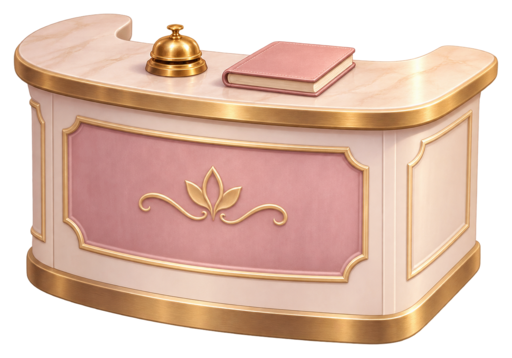
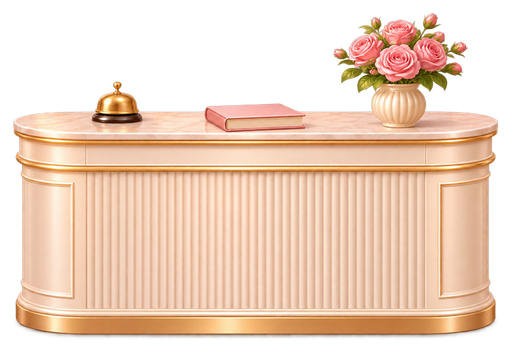
Publish generator 60/2-minute rest and approved Studio/Reception art to /preview/.

diff --git a/preview/i18n.js b/preview/i18n.js
@@ -16,7 +16,7 @@ window.LANGS = {
     mergeInto: 'ئىككىنى بىرلەشتۈرسىڭىز:', maxLevel: 'ئەڭ يۇقىرى دەرىجە! ✨',
     genHint: 'بېسىڭ: بۇيۇم چىقىدۇ (1 ئېنېرگىيە)', genMerge: 'ئوخشاش ئىككى قۇتىنى بىرلەشتۈرسىڭىز، تېخىمۇ ياخشى بۇيۇم چىقىدۇ',
     genMax: 'ئەڭ ياخشى قۇتا! ✨',
-    genRestHint: 'قۇتا 20 بۇيۇم چىقارغاندىن كېيىن 3 مىنۇت ئارام ئالىدۇ', genResting: t => 'قۇتا ئارام ئېلىۋاتىدۇ: ' + t, genPeekHint: 'بېسىپ تۇرۇپ كۆرۈڭ',
+    genRestHint: 'قۇتا 60 بۇيۇم چىقارغاندىن كېيىن 2 مىنۇت ئارام ئالىدۇ', genResting: t => 'قۇتا ئارام ئېلىۋاتىدۇ: ' + t, genPeekHint: 'بېسىپ تۇرۇپ كۆرۈڭ',
     wrapTable: 'ئوراش ئۈستىلى', wrapTableHint: 'سوۋغات زاكازىدىكى بۇيۇملارنى بۇ يەرگە تاشلاڭ',
     wrapBox: 'سوۋغات قۇتىسى', wrapBoxHint: 'بۇنى خېرىدارغا تاپشۇرۇڭ', wrapBadge: 'سوۋغات',
     wrapProgress: t => 'ئورىلىۋاتىدۇ: ' + t, wrapReady: 'ئوراش تۈگىدى',
@@ -117,7 +117,7 @@ window.LANGS = {
     hintExtra: p => 'قوشۇمچە رەڭ ' + p + ' تەڭگە، سېتىۋالغاندا ئاپتوماتىك قوللىنىلىدۇ؛ ئۆي تولۇقلىنىشى، يۇلتۇز ۋە ۋەزىپە ساناقلىرىغا تەسىر قىلمايدۇ.', toastColourAdded: 'رەڭ قوشۇلدى ۋە ئىشلىتىلدى', toastColourApplied: 'رەڭ ئىشلىتىلدى',
     previewHint: 'ئالدىن كۆرۈش — ساقلانمىدى', slotsTitle: 'بۇيۇملار',
     decos: { rug:'گىلەم', flowers:'گۈلدەستە', table:'گىرىم ئۈستىلى', mirror:'ئەينەك', chair:'ئورۇندۇق', lamp:'چىراغ', curtain:'پەردە', shelf:'تەكچە',
-      rcprunner:'يول گىلەمى', rcpdesk:'قوبۇل ئۈستىلى', rcpsign:'خۇش كەلدىڭىز', rcptea:'چاي ئۈستىلى', rcpplant:'چوڭ ئۆسۈملۈك', rcpsofa:'سوفا', rcpwall:'تام بېزىكى', rcplights:'ئېسىلما چىراغ', rcpcase:'كۆرگەزمە ئىشكاپى',
+      rcprunner:'يول گىلەمى', rcpdesk:'قوبۇل ئۈستىلى', rcpsign:'گۈل ۋازىسى', rcptea:'چاي ئۈستىلى', rcpplant:'چوڭ ئۆسۈملۈك', rcpsofa:'سوفا', rcpwall:'تام بېزىكى', rcplights:'ئېسىلما چىراغ', rcpcase:'كۆرگەزمە ئىشكاپى',
       spabed:'كارىۋات', spascreen:'قاتلانما پەردە', spatowels:'لۆڭگە ئېسىلمىسى', sparug:'سپا گىلىمى', spatrolley:'قورال ھارۋىسى', spasteam:'يۈز بۇغلىغۇچ', spachair:'ئارام ئورۇندۇقى', spabasin:'يۇيۇنۇش ئۈستىلى',
       spadrape:'دېرىزە پەردىسى', spaplant:'ئېگىز ئۆسۈملۈك', spalamp:'پول چىرىغى', spapouf:'جۈپ ئورۇندۇق', spashelf:'تەكچە', spafountain:'تاش فونتان', spacandles:'شام ئۈستىلى', spaorchid:'ئوركىدىيە',
       /* PROVISIONAL UG (Makeup Studio), owner/native review needed */
@@ -137,7 +137,7 @@ window.LANGS = {
     mergeInto: 'Merge two to get:', maxLevel: 'Maximum level! ✨',
     genHint: 'Tap to get an item (1 energy)', genMerge: 'Merge two identical boxes for better items',
     genMax: 'The best box! ✨',
-    genRestHint: 'After 20 items, the box rests for 3 minutes', genResting: t => 'The box is resting: ' + t, genPeekHint: 'Hold to see inside',
+    genRestHint: 'After 60 items, the box rests for 2 minutes', genResting: t => 'The box is resting: ' + t, genPeekHint: 'Hold to see inside',
     wrapTable: 'Wrapping table', wrapTableHint: 'Drop the gift-order items here',
     wrapBox: 'Wrapped gift', wrapBoxHint: 'Deliver this to the customer', wrapBadge: 'Gift',
     wrapProgress: t => 'Wrapping: ' + t, wrapReady: 'Wrapping is done',
@@ -238,7 +238,7 @@ window.LANGS = {
     hintExtra: p => 'An extra colour costs ' + p + ' coins and is applied when bought; it adds nothing to room completion, stars or task counts.', toastColourAdded: 'Colour added and applied', toastColourApplied: 'Colour applied',
     previewHint: 'Preview — not saved', slotsTitle: 'Items',
     decos: { rug:'Rug', flowers:'Flowers', table:'Vanity Table', mirror:'Mirror', chair:'Salon Chair', lamp:'Lamp', curtain:'Curtains', shelf:'Shelf',
-      rcprunner:'Runner Rug', rcpdesk:'Reception Desk', rcpsign:'Welcome Sign', rcptea:'Tea Table', rcpplant:'Tall Plant', rcpsofa:'Sofa', rcpwall:'Feature Wall', rcplights:'Pendant Lights', rcpcase:'Display Case',
+      rcprunner:'Runner Rug', rcpdesk:'Reception Desk', rcpsign:'Floor Vase', rcptea:'Tea Table', rcpplant:'Tall Plant', rcpsofa:'Sofa', rcpwall:'Feature Wall', rcplights:'Pendant Lights', rcpcase:'Display Case',
       spabed:'Treatment Bed', spascreen:'Folding Screen', spatowels:'Towel Ladder', sparug:'Spa Mat', spatrolley:'Treatment Trolley', spasteam:'Facial Steamer', spachair:'Lounge Chair', spabasin:'Washbasin Vanity',
       spadrape:'Window Drapes', spaplant:'Tall Plant', spalamp:'Floor Lamp', spapouf:'Pouf Pair', spashelf:'Product Shelf', spafountain:'Stone Fountain', spacandles:'Candle Table', spaorchid:'Orchid',
       mkrug:'Studio Rug', mkvanity:'Vanity Desk', mkchair:'Makeup Seat', mkmirror:'Bulb Mirror', mkring:'Ring Light', mkcabinet:'Cabinet', mkshelf:'Wall Shelf', mkgallery:'Looks Gallery', mksheers:'Sheers', mkplinth:'Plinth' },
@@ -257,7 +257,7 @@ window.LANGS = {
     mergeInto: 'İkisini birleştirirsen:', maxLevel: 'En yüksek seviye! ✨',
     genHint: 'Dokun, bir ürün çıksın (1 enerji)', genMerge: 'Daha iyi ürünler için aynı iki kutuyu birleştir',
     genMax: 'En iyi kutu! ✨',
-    genRestHint: '20 ürün çıkardıktan sonra kutu 3 dakika dinlenir', genResting: t => 'Kutu dinleniyor: ' + t, genPeekHint: 'Basılı tutarak bakın',
+    genRestHint: '60 ürün çıkardıktan sonra kutu 2 dakika dinlenir', genResting: t => 'Kutu dinleniyor: ' + t, genPeekHint: 'Basılı tutarak bakın',
     wrapTable: 'Paketleme masası', wrapTableHint: 'Hediye siparişindeki ürünleri buraya bırakın',
     wrapBox: 'Paketlenmiş hediye', wrapBoxHint: 'Bunu müşteriye teslim edin', wrapBadge: 'Hediye',
     wrapProgress: t => 'Paketleniyor: ' + t, wrapReady: 'Paketleme bitti',
@@ -358,7 +358,7 @@ window.LANGS = {
     hintExtra: p => 'Ek renk ' + p + ' altındır ve satın alınınca uygulanır; oda tamamlanmasına, yıldızlara veya görev sayaçlarına katkı yapmaz.', toastColourAdded: 'Renk eklendi ve uygulandı', toastColourApplied: 'Renk uygulandı',
     previewHint: 'Önizleme — kaydedilmedi', slotsTitle: 'Ürünler',
     decos: { rug:'Halı', flowers:'Çiçekler', table:'Makyaj Masası', mirror:'Ayna', chair:'Salon Koltuğu', lamp:'Lamba', curtain:'Perdeler', shelf:'Raf',
-      rcprunner:'Yolluk Halı', rcpdesk:'Resepsiyon Masası', rcpsign:'Karşılama Tabelası', rcptea:'Çay Masası', rcpplant:'Uzun Bitki', rcpsofa:'Kanepe', rcpwall:'Vurgu Duvarı', rcplights:'Sarkıt Lambalar', rcpcase:'Vitrin',
+      rcprunner:'Yolluk Halı', rcpdesk:'Resepsiyon Masası', rcpsign:'Yer Vazosu', rcptea:'Çay Masası', rcpplant:'Uzun Bitki', rcpsofa:'Kanepe', rcpwall:'Vurgu Duvarı', rcplights:'Sarkıt Lambalar', rcpcase:'Vitrin',
       spabed:'Bakım Yatağı', spascreen:'Katlanır Paravan', spatowels:'Havlu Merdiveni', sparug:'Spa Paspası', spatrolley:'Bakım Arabası', spasteam:'Yüz Buharı', spachair:'Dinlenme Koltuğu', spabasin:'Lavabo Dolabı',
       spadrape:'Pencere Perdeleri', spaplant:'Uzun Bitki', spalamp:'Ayaklı Lamba', spapouf:'Puf Çifti', spashelf:'Ürün Rafı', spafountain:'Taş Çeşme', spacandles:'Mum Masası', spaorchid:'Orkide',
       mkrug:'Stüdyo Halısı', mkvanity:'Makyaj Masası', mkchair:'Makyaj Koltuğu', mkmirror:'Ampullü Ayna', mkring:'Halka Işık', mkcabinet:'Dolap', mkshelf:'Duvar Rafı', mkgallery:'Görünüm Galerisi', mksheers:'Tül Perde', mkplinth:'Kaide' },
@@ -377,7 +377,7 @@ window.LANGS = {
     mergeInto: 'بدمج اثنين تحصل على:', maxLevel: 'أعلى مستوى! ✨',
     genHint: 'المس للحصول على عنصر (طاقة واحدة)', genMerge: 'ادمج صندوقين متطابقين للحصول على عناصر أفضل',
     genMax: 'أفضل صندوق! ✨',
-    genRestHint: 'بعد إخراج 20 قطعة يستريح الصندوق 3 دقائق', genResting: t => 'الصندوق يستريح: ' + t, genPeekHint: 'اضغط مع الاستمرار للعرض',
+    genRestHint: 'بعد إخراج 60 قطعة يستريح الصندوق دقيقتين', genResting: t => 'الصندوق يستريح: ' + t, genPeekHint: 'اضغط مع الاستمرار للعرض',
     wrapTable: 'طاولة التغليف', wrapTableHint: 'ألقوا أغراض طلب الهدية هنا',
     wrapBox: 'هدية مغلفة', wrapBoxHint: 'سلّموها إلى الزبون', wrapBadge: 'هدية',
     wrapProgress: t => 'جارٍ التغليف: ' + t, wrapReady: 'انتهى التغليف',
@@ -478,7 +478,7 @@ window.LANGS = {
     hintExtra: p => 'اللون الإضافي يكلّف ' + p + ' عملة ويُطبَّق عند الشراء؛ ولا يضيف شيئًا إلى اكتمال الغرفة أو النجوم أو عدّادات المهام.', toastColourAdded: 'أُضيف اللون وطُبّق', toastColourApplied: 'طُبّق اللون',
     previewHint: 'معاينة — لم يُحفظ', slotsTitle: 'العناصر',
     decos: { rug:'سجادة', flowers:'زهور', table:'طاولة التزيين', mirror:'مرآة', chair:'كرسي الصالون', lamp:'مصباح', curtain:'ستائر', shelf:'رف',
-      rcprunner:'سجادة ممر', rcpdesk:'مكتب الاستقبال', rcpsign:'لافتة الترحيب', rcptea:'طاولة الشاي', rcpplant:'نبتة طويلة', rcpsofa:'أريكة', rcpwall:'جدار مميز', rcplights:'إضاءة معلّقة', rcpcase:'خزانة عرض',
+      rcprunner:'سجادة ممر', rcpdesk:'مكتب الاستقبال', rcpsign:'مزهرية أرضية', rcptea:'طاولة الشاي', rcpplant:'نبتة طويلة', rcpsofa:'أريكة', rcpwall:'جدار مميز', rcplights:'إضاءة معلّقة', rcpcase:'خزانة عرض',
       spabed:'سرير العلاج', spascreen:'حاجز قابل للطي', spatowels:'سلّم المناشف', sparug:'حصيرة السبا', spatrolley:'عربة العلاج', spasteam:'جهاز بخار الوجه', spachair:'كرسي استرخاء', spabasin:'حوض غسل بخزانة',
       spadrape:'ستائر النافذة', spaplant:'نبتة طويلة', spalamp:'مصباح أرضي', spapouf:'زوج بوف', spashelf:'رف المنتجات', spafountain:'نافورة حجرية', spacandles:'طاولة الشموع', spaorchid:'أوركيد',
       mkrug:'سجادة الاستوديو', mkvanity:'مكتب التزيين', mkchair:'مقعد المكياج', mkmirror:'مرآة بمصابيح', mkring:'إضاءة حلقية', mkcabinet:'خزانة', mkshelf:'رف حائط', mkgallery:'معرض الإطلالات', mksheers:'ستائر شفافة', mkplinth:'قاعدة عرض' },
@@ -497,7 +497,7 @@ window.LANGS = {
     mergeInto: '合成两件可得：', maxLevel: '已达最高等级！✨',
     genHint: '点击获得物品（消耗 1 点能量）', genMerge: '合成两个相同的礼盒，可得到更好的物品',
     genMax: '最好的礼盒！✨',
-    genRestHint: '产出 20 个物品后，礼盒休息 3 分钟', genResting: t => '礼盒休息中：' + t, genPeekHint: '长按查看产出',
+    genRestHint: '产出 60 个物品后，礼盒休息 2 分钟', genResting: t => '礼盒休息中：' + t, genPeekHint: '长按查看产出',
     wrapTable: '包装台', wrapTableHint: '把礼物订单里的物品放到这里',
     wrapBox: '包装好的礼物', wrapBoxHint: '把它交给顾客', wrapBadge: '礼物',
     wrapProgress: t => '包装中：' + t, wrapReady: '包装完成',
@@ -598,7 +598,7 @@ window.LANGS = {
     hintExtra: p => '额外颜色需要 ' + p + ' 金币，购买后立即应用；不会增加房间完成度、星星或任务计数。', toastColourAdded: '颜色已添加并应用', toastColourApplied: '颜色已应用',
     previewHint: '预览——未保存', slotsTitle: '物品',
     decos: { rug:'地毯', flowers:'鲜花', table:'梳妆台', mirror:'镜子', chair:'沙龙椅', lamp:'台灯', curtain:'窗帘', shelf:'置物架',
-      rcprunner:'走廊地毯', rcpdesk:'接待台', rcpsign:'欢迎标牌', rcptea:'茶几', rcpplant:'高大绿植', rcpsofa:'沙发', rcpwall:'主题墙', rcplights:'吊灯', rcpcase:'展示柜',
+      rcprunner:'走廊地毯', rcpdesk:'接待台', rcpsign:'落地花瓶', rcptea:'茶几', rcpplant:'高大绿植', rcpsofa:'沙发', rcpwall:'主题墙', rcplights:'吊灯', rcpcase:'展示柜',
       spabed:'护理床', spascreen:'折叠屏风', spatowels:'毛巾架', sparug:'水疗垫', spatrolley:'护理推车', spasteam:'面部蒸汽机', spachair:'休闲椅', spabasin:'洗手台柜',
       spadrape:'窗帘', spaplant:'高大绿植', spalamp:'落地灯', spapouf:'坐墩一对', spashelf:'产品架', spafountain:'石质喷泉', spacandles:'蜡烛桌', spaorchid:'兰花',
       mkrug:'工作室地毯', mkvanity:'化妆桌', mkchair:'化妆椅', mkmirror:'灯泡镜', mkring:'环形补光灯', mkcabinet:'柜子', mkshelf:'墙面搁板', mkgallery:'造型展示墙', mksheers:'薄纱窗帘', mkplinth:'展示台' },
@@ -617,7 +617,7 @@ window.LANGS = {
     mergeInto: 'Если объединить два, получится:', maxLevel: 'Максимальный уровень! ✨',
     genHint: 'Нажмите, чтобы получить предмет (1 энергия)', genMerge: 'Объедините две одинаковые коробки, чтобы получать предметы лучше',
     genMax: 'Лучшая коробка! ✨',
-    genRestHint: 'После 20 предметов коробка отдыхает 3 минуты', genResting: t => 'Коробка отдыхает: ' + t, genPeekHint: 'Удерживайте, чтобы увидеть',
+    genRestHint: 'После 60 предметов коробка отдыхает 2 минуты', genResting: t => 'Коробка отдыхает: ' + t, genPeekHint: 'Удерживайте, чтобы увидеть',
     wrapTable: 'Стол для упаковки', wrapTableHint: 'Положите сюда предметы из подарочного заказа',
     wrapBox: 'Упакованный подарок', wrapBoxHint: 'Отдайте его гостью', wrapBadge: 'Подарок',
     wrapProgress: t => 'Упаковка: ' + t, wrapReady: 'Упаковка готова',
@@ -718,7 +718,7 @@ window.LANGS = {
     hintExtra: p => 'Дополнительный цвет стоит ' + p + ' монет и применяется при покупке; он не влияет на заполненность комнаты, звёзды и счётчики заданий.', toastColourAdded: 'Цвет добавлен и применён', toastColourApplied: 'Цвет применён',
     previewHint: 'Просмотр — не сохранено', slotsTitle: 'Предметы',
     decos: { rug:'Ковёр', flowers:'Цветы', table:'Туалетный столик', mirror:'Зеркало', chair:'Салонное кресло', lamp:'Лампа', curtain:'Шторы', shelf:'Полка',
-      rcprunner:'Ковровая дорожка', rcpdesk:'Стойка ресепшен', rcpsign:'Приветственная табличка', rcptea:'Чайный столик', rcpplant:'Высокое растение', rcpsofa:'Диван', rcpwall:'Акцентная стена', rcplights:'Подвесные светильники', rcpcase:'Витрина',
+      rcprunner:'Ковровая дорожка', rcpdesk:'Стойка ресепшен', rcpsign:'Напольная ваза', rcptea:'Чайный столик', rcpplant:'Высокое растение', rcpsofa:'Диван', rcpwall:'Акцентная стена', rcplights:'Подвесные светильники', rcpcase:'Витрина',
       spabed:'Кушетка для процедур', spascreen:'Складная ширма', spatowels:'Лесенка для полотенец', sparug:'Спа-коврик', spatrolley:'Тележка для процедур', spasteam:'Паровой аппарат для лица', spachair:'Кресло для отдыха', spabasin:'Тумба с раковиной',
       spadrape:'Шторы на окно', spaplant:'Высокое растение', spalamp:'Торшер', spapouf:'Пара пуфов', spashelf:'Полка для средств', spafountain:'Каменный фонтан', spacandles:'Столик со свечами', spaorchid:'Орхидея',
       mkrug:'Ковёр студии', mkvanity:'Гримёрный стол', mkchair:'Кресло визажиста', mkmirror:'Зеркало с лампочками', mkring:'Кольцевая лампа', mkcabinet:'Шкаф', mkshelf:'Настенная полка', mkgallery:'Галерея образов', mksheers:'Тюль', mkplinth:'Подиум' },
@@ -737,7 +737,7 @@ window.LANGS = {
     mergeInto: 'En fusionnant deux, vous obtenez :', maxLevel: 'Niveau maximum ! ✨',
     genHint: 'Touchez pour obtenir un objet (1 énergie)', genMerge: 'Fusionnez deux boîtes identiques pour de meilleurs objets',
     genMax: 'La meilleure boîte ! ✨',
-    genRestHint: 'Après 20 objets, la boîte se repose 3 minutes', genResting: t => 'La boîte se repose : ' + t, genPeekHint: 'Maintenez pour voir',
+    genRestHint: 'Après 60 objets, la boîte se repose 2 minutes', genResting: t => 'La boîte se repose : ' + t, genPeekHint: 'Maintenez pour voir',
     wrapTable: 'Table d’emballage', wrapTableHint: 'Déposez ici les objets de la commande cadeau',
     wrapBox: 'Cadeau emballé', wrapBoxHint: 'Remettez-le à la cliente', wrapBadge: 'Cadeau',
     wrapProgress: t => 'Emballage : ' + t, wrapReady: 'Emballage terminé',
@@ -838,7 +838,7 @@ window.LANGS = {
     hintExtra: p => 'Une couleur supplémentaire coûte ' + p + ' pièces et s’applique à l’achat ; elle n’ajoute rien à l’achèvement de la pièce, aux étoiles ni aux compteurs de missions.', toastColourAdded: 'Couleur ajoutée et appliquée', toastColourApplied: 'Couleur appliquée',
     previewHint: 'Aperçu — non enregistré', slotsTitle: 'Objets',
     decos: { rug:'Tapis', flowers:'Fleurs', table:'Coiffeuse', mirror:'Miroir', chair:'Fauteuil de salon', lamp:'Lampe', curtain:'Rideaux', shelf:'Étagère',
-      rcprunner:'Tapis de couloir', rcpdesk:'Comptoir d’accueil', rcpsign:'Enseigne de bienvenue', rcptea:'Table à thé', rcpplant:'Grande plante', rcpsofa:'Canapé', rcpwall:'Mur d’accent', rcplights:'Suspensions', rcpcase:'Vitrine',
+      rcprunner:'Tapis de couloir', rcpdesk:'Comptoir d’accueil', rcpsign:'Vase sur pied', rcptea:'Table à thé', rcpplant:'Grande plante', rcpsofa:'Canapé', rcpwall:'Mur d’accent', rcplights:'Suspensions', rcpcase:'Vitrine',
       spabed:'Lit de soins', spascreen:'Paravent pliant', spatowels:'Échelle à serviettes', sparug:'Tapis de spa', spatrolley:'Chariot de soins', spasteam:'Vapeur faciale', spachair:'Fauteuil de détente', spabasin:'Meuble vasque',
       spadrape:'Rideaux de fenêtre', spaplant:'Grande plante', spalamp:'Lampadaire', spapouf:'Paire de poufs', spashelf:'Étagère à produits', spafountain:'Fontaine en pierre', spacandles:'Table à bougies', spaorchid:'Orchidée',
       mkrug:'Tapis du studio', mkvanity:'Bureau de maquillage', mkchair:'Siège de maquillage', mkmirror:'Miroir à ampoules', mkring:'Lampe annulaire', mkcabinet:'Armoire', mkshelf:'Étagère murale', mkgallery:'Galerie de looks', mksheers:'Voilages', mkplinth:'Socle' },
@@ -857,7 +857,7 @@ window.LANGS = {
     mergeInto: 'Zwei verschmelzen ergibt:', maxLevel: 'Höchstes Level! ✨',
     genHint: 'Tippen für einen Gegenstand (1 Energie)', genMerge: 'Verschmelze zwei gleiche Boxen für bessere Gegenstände',
     genMax: 'Die beste Box! ✨',
-    genRestHint: 'Nach 20 Gegenständen ruht die Box 3 Minuten', genResting: t => 'Die Box ruht: ' + t, genPeekHint: 'Halten zum Ansehen',
+    genRestHint: 'Nach 60 Gegenständen ruht die Box 2 Minuten', genResting: t => 'Die Box ruht: ' + t, genPeekHint: 'Halten zum Ansehen',
     wrapTable: 'Einpacktisch', wrapTableHint: 'Legt die Gegenstände der Geschenkbestellung hier ab',
     wrapBox: 'Eingepacktes Geschenk', wrapBoxHint: 'Gebt es der Kundin', wrapBadge: 'Geschenk',
     wrapProgress: t => 'Wird eingepackt: ' + t, wrapReady: 'Einpacken fertig',
@@ -958,7 +958,7 @@ window.LANGS = {
     hintExtra: p => 'Eine zusätzliche Farbe kostet ' + p + ' Münzen und wird beim Kauf angewendet; sie zählt nicht für Raumfortschritt, Sterne oder Aufgabenzähler.', toastColourAdded: 'Farbe hinzugefügt und angewendet', toastColourApplied: 'Farbe angewendet',
     previewHint: 'Vorschau — nicht gespeichert', slotsTitle: 'Gegenstände',
     decos: { rug:'Teppich', flowers:'Blumen', table:'Schminktisch', mirror:'Spiegel', chair:'Salonstuhl', lamp:'Lampe', curtain:'Vorhänge', shelf:'Regal',
-      rcprunner:'Läufer', rcpdesk:'Empfangstresen', rcpsign:'Willkommensschild', rcptea:'Teetisch', rcpplant:'Hohe Pflanze', rcpsofa:'Sofa', rcpwall:'Akzentwand', rcplights:'Pendelleuchten', rcpcase:'Vitrine',
+      rcprunner:'Läufer', rcpdesk:'Empfangstresen', rcpsign:'Bodenvase', rcptea:'Teetisch', rcpplant:'Hohe Pflanze', rcpsofa:'Sofa', rcpwall:'Akzentwand', rcplights:'Pendelleuchten', rcpcase:'Vitrine',
       spabed:'Behandlungsliege', spascreen:'Paravent', spatowels:'Handtuchleiter', sparug:'Spa-Matte', spatrolley:'Behandlungswagen', spasteam:'Gesichtsdampfer', spachair:'Relaxsessel', spabasin:'Waschtischunterschrank',
       spadrape:'Fenstervorhänge', spaplant:'Hohe Pflanze', spalamp:'Stehlampe', spapouf:'Pouf-Paar', spashelf:'Produktregal', spafountain:'Steinbrunnen', spacandles:'Kerzentisch', spaorchid:'Orchidee',
       mkrug:'Studioteppich', mkvanity:'Schminkplatz', mkchair:'Make-up-Sitz', mkmirror:'Glühbirnenspiegel', mkring:'Ringlicht', mkcabinet:'Schrank', mkshelf:'Wandregal', mkgallery:'Look-Galerie', mksheers:'Gardinen', mkplinth:'Sockel' },
@@ -977,7 +977,7 @@ window.LANGS = {
     mergeInto: 'Al fusionar dos obtienes:', maxLevel: '¡Nivel máximo! ✨',
     genHint: 'Toca para obtener un objeto (1 de energía)', genMerge: 'Fusiona dos cajas iguales para obtener mejores objetos',
     genMax: '¡La mejor caja! ✨',
-    genRestHint: 'Tras 20 objetos, la caja descansa 3 minutos', genResting: t => 'La caja está en descanso: ' + t, genPeekHint: 'Mantén pulsado para ver',
+    genRestHint: 'Tras 60 objetos, la caja descansa 2 minutos', genResting: t => 'La caja está en descanso: ' + t, genPeekHint: 'Mantén pulsado para ver',
     wrapTable: 'Mesa de envolver', wrapTableHint: 'Deja aquí los objetos del pedido de regalo',
     wrapBox: 'Regalo envuelto', wrapBoxHint: 'Entrégaselo a la clienta', wrapBadge: 'Regalo',
     wrapProgress: t => 'Envolviendo: ' + t, wrapReady: 'El envoltorio está listo',
@@ -1078,7 +1078,7 @@ window.LANGS = {
     hintExtra: p => 'Un color extra cuesta ' + p + ' monedas y se aplica al comprarlo; no suma a lo completa que está la sala, a las estrellas ni a los contadores de tareas.', toastColourAdded: 'Color añadido y aplicado', toastColourApplied: 'Color aplicado',
     previewHint: 'Vista previa: no se guarda', slotsTitle: 'Objetos',
     decos: { rug:'Alfombra', flowers:'Flores', table:'Tocador', mirror:'Espejo', chair:'Sillón de salón', lamp:'Lámpara', curtain:'Cortinas', shelf:'Estante',
-      rcprunner:'Alfombra de pasillo', rcpdesk:'Mostrador de recepción', rcpsign:'Letrero de bienvenida', rcptea:'Mesa de té', rcpplant:'Planta alta', rcpsofa:'Sofá', rcpwall:'Pared de acento', rcplights:'Lámparas colgantes', rcpcase:'Vitrina',
+      rcprunner:'Alfombra de pasillo', rcpdesk:'Mostrador de recepción', rcpsign:'Jarrón de pie', rcptea:'Mesa de té', rcpplant:'Planta alta', rcpsofa:'Sofá', rcpwall:'Pared de acento', rcplights:'Lámparas colgantes', rcpcase:'Vitrina',
       spabed:'Camilla de tratamientos', spascreen:'Biombo plegable', spatowels:'Escalera de toallas', sparug:'Esterilla de spa', spatrolley:'Carrito de tratamientos', spasteam:'Vaporizador facial', spachair:'Sillón de relax', spabasin:'Mueble con lavabo',
       spadrape:'Cortinas de ventana', spaplant:'Planta alta', spalamp:'Lámpara de pie', spapouf:'Par de pufs', spashelf:'Estante de productos', spafountain:'Fuente de piedra', spacandles:'Mesa de velas', spaorchid:'Orquídea',
       mkrug:'Alfombra del estudio', mkvanity:'Tocador de trabajo', mkchair:'Asiento de maquillaje', mkmirror:'Espejo con bombillas', mkring:'Aro de luz', mkcabinet:'Armario', mkshelf:'Estante de pared', mkgallery:'Galería de looks', mksheers:'Visillos', mkplinth:'Pedestal' },
@@ -1097,7 +1097,7 @@ window.LANGS = {
     mergeInto: 'Mesclando dois, você obtém:', maxLevel: 'Nível máximo! ✨',
     genHint: 'Toque para obter um item (1 de energia)', genMerge: 'Mescle duas caixas iguais para obter itens melhores',
     genMax: 'A melhor caixa! ✨',
-    genRestHint: 'Depois de 20 itens, a caixa descansa 3 minutos', genResting: t => 'A caixa está descansando: ' + t, genPeekHint: 'Segure para ver',
+    genRestHint: 'Depois de 60 itens, a caixa descansa 2 minutos', genResting: t => 'A caixa está descansando: ' + t, genPeekHint: 'Segure para ver',
     wrapTable: 'Mesa de embrulho', wrapTableHint: 'Solte aqui os itens do pedido de presente',
     wrapBox: 'Presente embrulhado', wrapBoxHint: 'Entregue à cliente', wrapBadge: 'Presente',
     wrapProgress: t => 'Embrulhando: ' + t, wrapReady: 'O embrulho está pronto',
@@ -1198,7 +1198,7 @@ window.LANGS = {
     hintExtra: p => 'Uma cor extra custa ' + p + ' moedas e é aplicada ao comprar; ela não soma ao progresso do ambiente, às estrelas nem aos contadores de tarefas.', toastColourAdded: 'Cor adicionada e aplicada', toastColourApplied: 'Cor aplicada',
     previewHint: 'Pré-visualização — não salva', slotsTitle: 'Itens',
     decos: { rug:'Tapete', flowers:'Flores', table:'Penteadeira', mirror:'Espelho', chair:'Cadeira de salão', lamp:'Luminária', curtain:'Cortinas', shelf:'Prateleira',
-      rcprunner:'Passadeira', rcpdesk:'Balcão de recepção', rcpsign:'Placa de boas-vindas', rcptea:'Mesa de chá', rcpplant:'Planta alta', rcpsofa:'Sofá', rcpwall:'Parede de destaque', rcplights:'Pendentes', rcpcase:'Vitrine',
+      rcprunner:'Passadeira', rcpdesk:'Balcão de recepção', rcpsign:'Vaso de chão', rcptea:'Mesa de chá', rcpplant:'Planta alta', rcpsofa:'Sofá', rcpwall:'Parede de destaque', rcplights:'Pendentes', rcpcase:'Vitrine',
       spabed:'Maca de tratamento', spascreen:'Biombo dobrável', spatowels:'Escada de toalhas', sparug:'Tapete de spa', spatrolley:'Carrinho de tratamento', spasteam:'Vaporizador facial', spachair:'Poltrona de descanso', spabasin:'Gabinete com pia',
       spadrape:'Cortinas da janela', spaplant:'Planta alta', spalamp:'Luminária de piso', spapouf:'Par de pufes', spashelf:'Prateleira de produtos', spafountain:'Fonte de pedra', spacandles:'Mesa de velas', spaorchid:'Orquídea',
       mkrug:'Tapete do estúdio', mkvanity:'Bancada de maquiagem', mkchair:'Cadeira de maquiagem', mkmirror:'Espelho com lâmpadas', mkring:'Ring light', mkcabinet:'Armário', mkshelf:'Prateleira de parede', mkgallery:'Galeria de looks', mksheers:'Cortinas translúcidas', mkplinth:'Pedestal' },

diff --git a/preview/art.js b/preview/art.js
@@ -294,12 +294,13 @@ const SALON_DIR = 'assets/salon-v1/';
    (window rod/sill, vanity under the mirror, vase foot on the tabletop, floor feet). Boxes fill
    the sprite exactly, so object-fit:contain no longer letterboxes and “drops” props in mid-air. */
 const SALON_LAYOUT = {rug:[79.56,189.94,200.88,75.08,0], curtain:[225.06,0,116.31,163,1], shelf:[3.98,32.07,74.09,184.97,2], mirror:[84.03,14.92,107.9,128.04,3],
-  table:[82,121.25,150,96.75,4], lamp:[315,66.63,42.02,131.77,5], chair:[100,134.01,100.44,115.11,6], flowers:[188.28,88.03,40.03,45.25,7]};
-/* Reception (Reception Art v1): own empty-room image + nine props. Measured layout from assets/reception/layout.json (natural aspect ratios; verify/salon-areas.js
-   checks these numbers equal that file). The single-file build embeds the base + @2x props in window.SALON_INLINE under the same ids. */
+  table:[82,121.25,150,96.75,4], lamp:[322.84,66.63,42.02,131.77,5], chair:[100,134.01,100.44,115.11,6], flowers:[188.28,88.03,40.03,45.25,7]};
+/* Reception (Reception Art v2): new empty-room image + nine drawn props (ChatGPT room). rcpsign is the floor vase beside the
+   entrance doors (price 500). Measured layout from assets/reception/layout.json
+   (natural aspect ratios; verify/salon-areas.js checks these numbers equal that file). The single-file build embeds the base + @2x props. */
 const RECEPTION_DIR = 'assets/reception/';
-const RECEPTION_LAYOUT = {rcprunner:[105.511,201,206.979,57,0], rcpdesk:[112,132.598,125,87.402,3], rcpsign:[211.801,182,26.398,62,4], rcpsofa:[239,162.197,105,72.803,3],
-  rcpplant:[329,146.584,29,96.416,4], rcptea:[258.1,225,60.8,38,5], rcpwall:[110,38.262,138,75.738,1], rcplights:[123.219,0,89.563,60,6], rcpcase:[65,92.74,43,127.26,3]};
+const RECEPTION_LAYOUT = {rcprunner:[60.094,199.815,264.176,58.82,0], rcpdesk:[120.31,91.55,134.472,92.799,3], rcpsign:[36.796,120.331,47.213,89.751,4], rcpsofa:[244.129,127.334,115.871,87.658,4],
+  rcpplant:[258.295,73.972,58.217,105.201,3], rcptea:[261.014,175.157,50.361,51.707,5], rcpwall:[134.96,54.341,92.069,51.429,1], rcplights:[162.412,0,45.183,47.666,6], rcpcase:[60.174,52.064,56.17,126.507,2]};
 /* Spa Art v1 (assets/spa/): installed and verified but NOT ACTIVE — no gameplay, unlock, purchase UI or preload uses it yet (docs/salon/SPA_PLAN.md).
    Measured layout = docs/art/spa-v1/layout.json (verify/spa-art.js checks equality). Colour slots have <id>_rose|sage|lilac files; all other props are single files. */
 const SPA_DIR = 'assets/spa/';
@@ -331,7 +332,7 @@ function makeupSrc(id){               // pure URL helper (no preload, no DOM); n
   if (key === 'makeup-base') return {src: MAKEUP_DIR + 'salon-makeup-base.png', srcset: ''};
   return {src: `${MAKEUP_DIR}${key}.png`, srcset: `${MAKEUP_DIR}${key}.png 1x, ${MAKEUP_DIR}${key}@2x.png 2x, ${MAKEUP_DIR}${key}@3x.png 3x`};
 }
-const isReception = id => id === 'reception-base' || RECEPTION_LAYOUT[id] !== undefined;
+const isReception = id => id === 'reception-base' || id.indexOf('rcp') === 0;
 function salonSrc(id, colour){
   if (id === 'spa-base') return spaSrc('base');
   if (id === 'makeup-base') return makeupSrc('base');

diff --git a/preview/index.html b/preview/index.html
@@ -9,15 +9,15 @@
 <meta name="apple-mobile-web-app-status-bar-style" content="default">
 <meta name="apple-mobile-web-app-title" content="Atelier Lueur">
 <meta name="theme-color" content="#ffd9ea">
-<link rel="apple-touch-icon" href="icon.png?v=13e03d2deec9">
-<link rel="manifest" href="manifest.json?v=13e03d2deec9">
+<link rel="apple-touch-icon" href="icon.png?v=3857da585463">
+<link rel="manifest" href="manifest.json?v=3857da585463">
 <title>Atelier Lueur</title>
-<link rel="preload" href="assets/fonts/NotoSansArabic-Variable.ttf?v=13e03d2deec9" as="font" type="font/ttf" crossorigin>
-<link rel="preload" href="assets/fonts/Nunito-Variable.ttf?v=13e03d2deec9" as="font" type="font/ttf" crossorigin>
-<link rel="preload" href="assets/fonts/NotoSansSC-Subset.ttf?v=13e03d2deec9" as="font" type="font/ttf" crossorigin>
-<link rel="preload" href="assets/fonts/GreatVibes-Regular.ttf?v=13e03d2deec9" as="font" type="font/ttf" crossorigin>
-<link rel="stylesheet" href="fonts.css?v=13e03d2deec9">
-<link rel="stylesheet" href="style.css?v=13e03d2deec9">
+<link rel="preload" href="assets/fonts/NotoSansArabic-Variable.ttf?v=3857da585463" as="font" type="font/ttf" crossorigin>
+<link rel="preload" href="assets/fonts/Nunito-Variable.ttf?v=3857da585463" as="font" type="font/ttf" crossorigin>
+<link rel="preload" href="assets/fonts/NotoSansSC-Subset.ttf?v=3857da585463" as="font" type="font/ttf" crossorigin>
+<link rel="preload" href="assets/fonts/GreatVibes-Regular.ttf?v=3857da585463" as="font" type="font/ttf" crossorigin>
+<link rel="stylesheet" href="fonts.css?v=3857da585463">
+<link rel="stylesheet" href="style.css?v=3857da585463">
 </head>
 <body>
 <div id="bg"></div>
@@ -143,16 +143,16 @@
 })();
 </script>
 
-<script src="config.js?v=13e03d2deec9"></script>
-<script src="i18n.js?v=13e03d2deec9"></script>
-<script src="art.js?v=13e03d2deec9"></script>
-<script src="save.js?v=13e03d2deec9"></script>
-<script src="progression.js?v=13e03d2deec9"></script>
-<script src="salon-data.js?v=13e03d2deec9"></script>
-<script src="atelier.js?v=13e03d2deec9"></script>
-<script src="missions.js?v=13e03d2deec9"></script>
-<script src="content.js?v=13e03d2deec9"></script>
-<script src="audio.js?v=13e03d2deec9"></script>
-<script src="game.js?v=13e03d2deec9"></script>
+<script src="config.js?v=3857da585463"></script>
+<script src="i18n.js?v=3857da585463"></script>
+<script src="art.js?v=3857da585463"></script>
+<script src="save.js?v=3857da585463"></script>
+<script src="progression.js?v=3857da585463"></script>
+<script src="salon-data.js?v=3857da585463"></script>
+<script src="atelier.js?v=3857da585463"></script>
+<script src="missions.js?v=3857da585463"></script>
+<script src="content.js?v=3857da585463"></script>
+<script src="audio.js?v=3857da585463"></script>
+<script src="game.js?v=3857da585463"></script>
 </body>
 </html>

diff --git a/preview/game.js b/preview/game.js
@@ -9,7 +9,7 @@ const COLS = 7, ROWS = 8, N = COLS*ROWS;
 const ENERGY_CAP = 100, ENERGY_MS = 120000;     // ONE shared cap: passive regeneration stops at 100 (rewards may exceed it); +1 energy every 2 minutes
 const INITIAL_ENERGY = 50;                    // a new game still starts with 50 (separate from the cap)
 const LEGACY_ENERGY_CAP = 50;                 // the cap before the 100 cap (used only to settle old saves exactly once)
-const MAXLV = 6, GEN_MAXLV = 3, GEN_STOCK = 20, GEN_REST_MS = 180000;   // 20 productions, then a 3-minute rest; leftover time counts while away
+const MAXLV = 6, GEN_MAXLV = 3, GEN_STOCK = 60, GEN_REST_MS = 120000;   // 60 productions, then a 2-minute rest; leftover time counts while away
 const WRAP_LEVEL = 5, WRAP_MS = 10000;   // wrapping table unlocks at level 5 (preview grants it early so it can be tried)
 const GIFT_ORDER_MIN = 8, GIFT_ORDER_MAX = 10;   // one gift order every 8–10 regular orders
 const CHEST_GAP_MS = 90 * 60 * 1000;             // at most one board chest per 90 minutes (wall clock)
